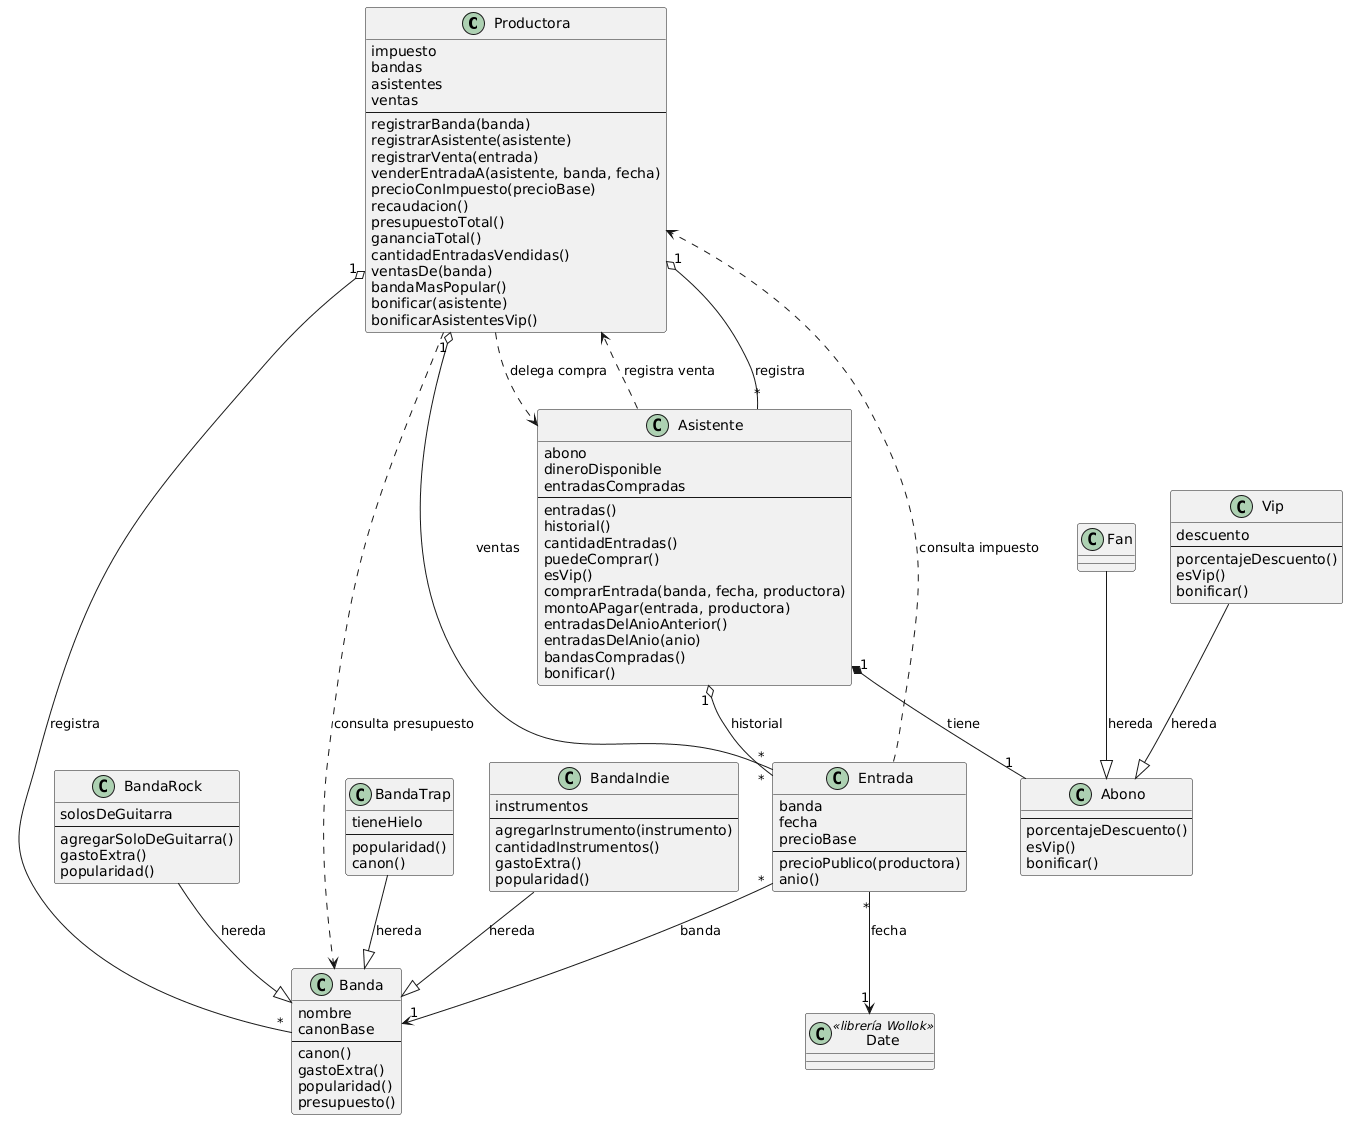
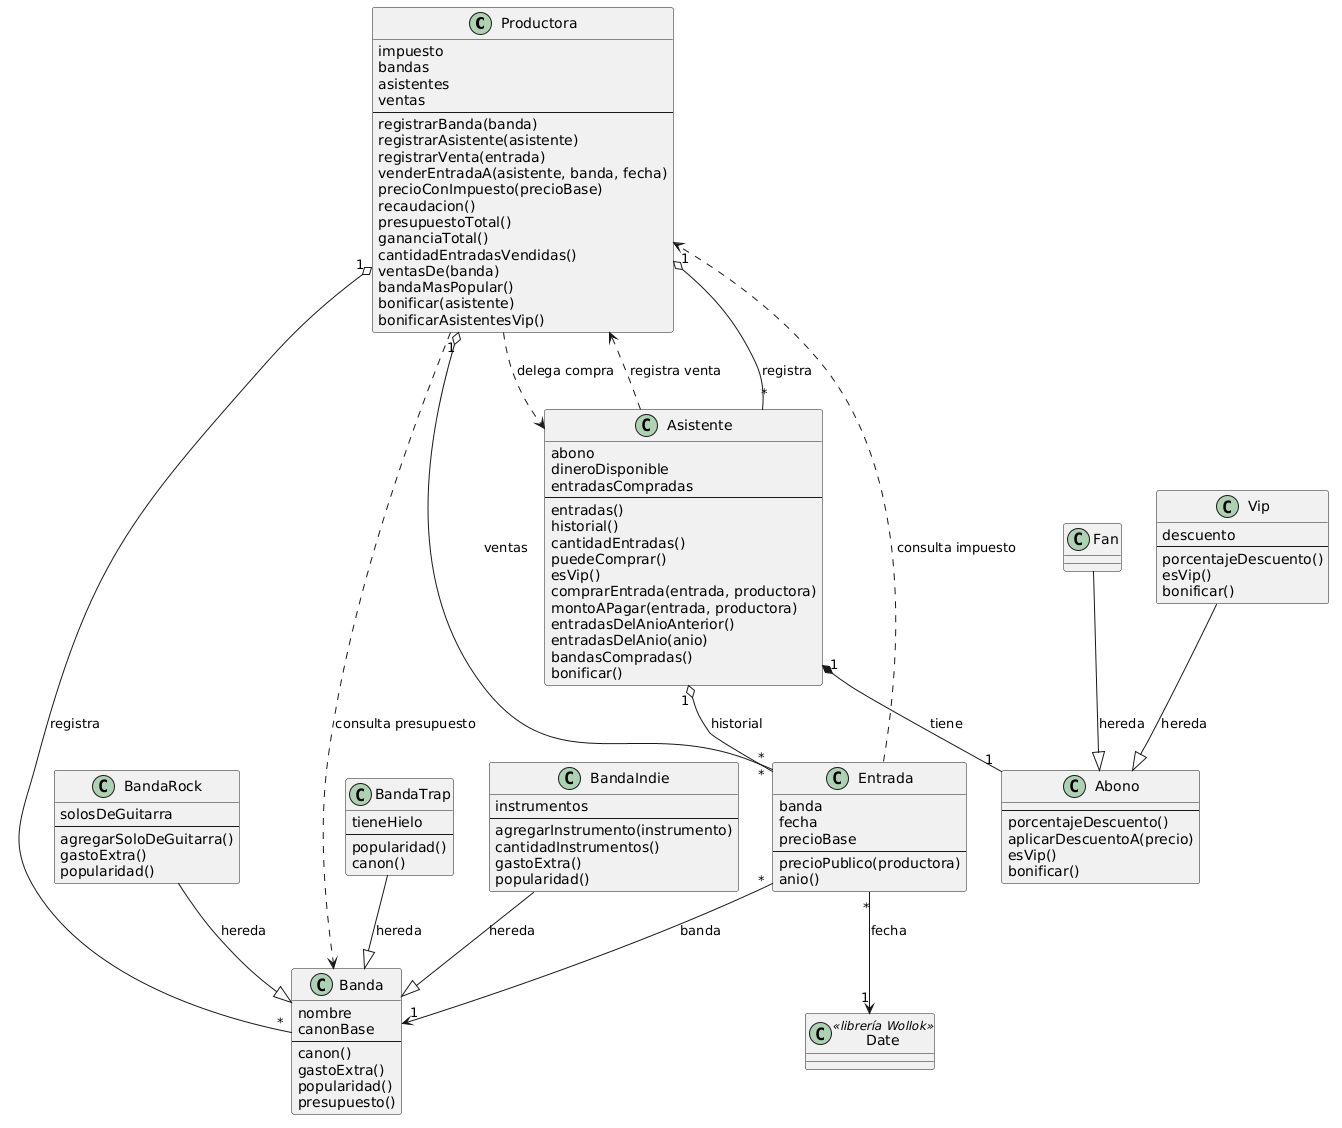
refactor: delega la creación de entradas y el cálculo del descuento

diff --git a/README.md b/README.md
@@ -11,7 +11,7 @@ El diagrama también está en `diagrama_solucion_Ignacio_Alvarez.puml`.
 - El impuesto es un porcentaje que guarda la productora y se aplica al precio base de cada entrada.
 - El descuento vip se calcula sobre el precio público, es decir, precio base más impuesto. El abono fan no tiene descuento.
 - Para comprar, el asistente necesita saldo mayor a cero. Después de la compra puede quedar con saldo negativo.
-- La productora registra cada venta y calcula sus reportes sobre ese registro.
+- La productora crea la entrada; el asistente valida el saldo, paga, agrega la entrada a su historial y registra la venta. El cálculo del descuento queda en el abono.
 - La recaudación usa el precio público sin descontar el beneficio vip, porque esa diferencia la cubren los sponsors.
 - El canon de trap es 1.000.000 multiplicado por la popularidad. Para la banda más popular usé la cantidad de entradas vendidas, no el método `popularidad()`.
 - “Año anterior” significa el año calendario anterior. Los nombres de las bandas compradas se devuelven sin repetir.
@@ -19,8 +19,8 @@ El diagrama también está en `diagrama_solucion_Ignacio_Alvarez.puml`.
 
 ## Conceptos aplicados
 
-1. **Objetos y mensajes:** la productora le envía `comprarEntrada` al asistente, y el asistente les envía mensajes a la entrada, al abono y a la productora. Cada objeto se encarga de una parte de la compra.
+1. **Objetos y mensajes:** la productora crea la entrada y le envía `comprarEntrada` al asistente. El asistente consulta el precio a la entrada, el descuento a su abono y registra la venta en la productora.
 2. **Herencia:** `Banda` es la superclase de `BandaRock`, `BandaTrap` y `BandaIndie`; `Abono` es la superclase de `Fan` y `Vip`. Las subclases reutilizan lo común y cambian solo lo que necesitan. En Wollok no hay interfaces, así que la variación de comportamiento se resolvió con herencia y polimorfismo.
-3. **Polimorfismo:** `popularidad()`, `canon()`, `gastoExtra()`, `porcentajeDescuento()` y `bonificar()` se comportan distinto según el tipo de banda o de abono. La productora y el asistente trabajan con todos de la misma forma.
-4. **Encapsulamiento:** el dinero, el historial, las ventas, los descuentos y los datos de las bandas son estado interno y se consultan o modifican mediante métodos. La compra se resuelve en `Asistente.comprarEntrada` para mantener todo consistente.
+3. **Polimorfismo:** `popularidad()`, `canon()`, `gastoExtra()`, `porcentajeDescuento()`, `aplicarDescuentoA()` y `bonificar()` se comportan distinto según el tipo de banda o de abono. La productora y el asistente trabajan con todos de la misma forma.
+4. **Encapsulamiento:** el dinero, el historial, las ventas, los descuentos y los datos de las bandas son estado interno y se consultan o modifican mediante métodos. La productora arma la venta y el asistente resuelve el pago, el historial y el registro; el descuento lo calcula el abono.
 5. **Composición y colecciones:** la productora contiene bandas, asistentes y ventas; el asistente contiene un abono y su historial. Los reportes se arman recorriendo esas colecciones con `filter`, `map`, `sum`, `count` y `max`.
